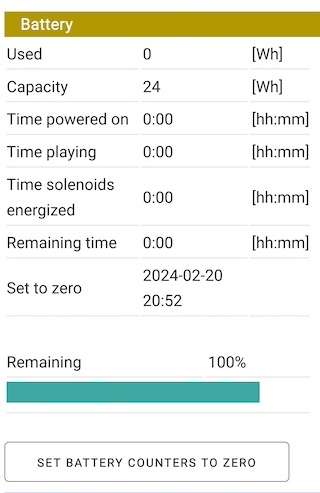
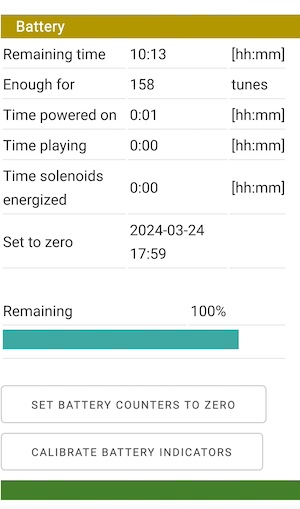
Update software README with new features

diff --git a/doc-software/README.md b/doc-software/README.md
@@ -45,7 +45,6 @@ flowchart LR
     H[main menu]
     H --> |Crank organ button| T[tune list page]
     T --> |Performance button| P[Performance control page]
-    P --> | <- back button, top left corner | T
     H --> |Tuner button| NL[Note list page]
     NL --> |Click on note name/MIDI number| NN[Note page]
     H --> |History button| HI[History page]
@@ -61,7 +60,9 @@ It's best to navigate the application using the buttons and the back button on t
 
 The home page is by default the menu page, but the configuration allows to define the tune list or the performance page as "home" page.
 
-While music is playing, try to stay on the tune list and the performance page. The software is optimized so that these pages and their refresh does not interfere with the MIDI notes being played. All functions for playing music are included in these two pages.
+While music is playing, try to stay on the tune list and the performance page. The software is optimized so that these pages and their refresh does not interfere with the MIDI notes being played. All functions for playing music are included in these two pages. Other pages may interfere with playing music.
+
+While using the tuning pages (note list and note page), playing back music is disabled. Navigating back to tune list and play pages enables playing back music again.
 
 
 ## The page header
@@ -89,7 +90,8 @@ If the browser looses the connection to the server, the broken heart symbol &#x1
 
 The "Battery" section shows more information about the computed state of the battery than the page header. 
 
-The correct calculation of power remaining depends on the "battery_watts_hour" parameter in the config.json file. Be sure to press "Battery counters set to zero" after recharging the battery.
+Be sure to press "Battery counters set to zero" after recharging the battery.
+
 
 
 
@@ -497,13 +499,20 @@ Leave the username blank. Enter the configuration password and press accept.
 
 ## Power management settings
 
-Configure the battery capacity, in watts-hour. You get the watts-hour by multiplying the battery voltage by the milliampere-hours figure (mAh) figure of the battery. Some manufacturers will publish the watts-hour figure.
+Maximum polyphony allowed: Since the battery fuse or current protection may shut down the battery if the consumption is too high, this limits the maximum solenoids that can be on at a certain time. The oldest note gets turned off (i.e. shortened a bit) if the maximum is exceeded.
 
-Example: a AA battery is rated at 2000mAh, that is 2 Ah (ampere-hours. The battery pack has 10 batteries delivering 1.2V each, for a total of 12V. The capacity is 12V*2Ah = 24 watt-hours.
+USB power pack heartbeat: Some USB power packs need some current every now and then to remain turned on. This option will activate a random solenoid to achieve a minimal consumption.
 
-Another example: a USB battery pack is rated at 10000mAh = 10 Ah. Although the battery pack delivers 5V, lithium batteries are 3.3V, so the capacity is 3.3V*10Ah = 33 watt-hours.
+The battery capacity is configurated with the following steps:
+* Charge battery fully and insert
+* Press "Reset battery counters to zero" on index page 
+* Play the organ until the battery reaches zero, i.e. until the battery fully discharges. 
+* Recharge battery fully, insert and _before_ setting counters to zero, press "Battery calibration". Enter 0 (i.e. battery empty) and press ok.
+* Repeat these steps a second time to ensure best results.
 
-Configure the solenoid resistance (default: 90 Ohms).
+Battery capacity will be automatically calculated from now on. This process is necessary only once.
+
+If the battery has a % charge indicator, the % can be entered every now and then, this is an alternative way to calibrate the battery.
 
 ## Time zone
 When connected to a router or cell phone hot spot, the software uses ntptime (network time protocol) to acquire the UTC time, and then it queries worldtimeapi.org once a day for the time zone offset and DST offset. Once that is done, the time zone offset is stored in flash for the next refresh, that takes place at most once a day.
@@ -519,6 +528,8 @@ Before copying tunes to the microcontroller, it is best to have the time set by 
 Go through the rest and change what you may need, use save button to save to the microcontroller. Most parameters are there just to explain how the software works.
 
 The sections are:
+* Automatic playback. This option makes sense if a crank motor is installed. The setlist will be played with the indicated time between tunes.
+
 * Crank settings. Necessary to change when a crank speed sensor is installed (still under development).
 
 The rest of the sections is even less likely to require change:
@@ -693,9 +704,9 @@ Most code, especially the MIDI file parser, has been tested extensively, althoug
 
 The following features need more testing or development:
 
-* Microphone for tuning. It works well, but I have not included a way to aid setting the sensitivity of the microphone. Microphones have a volume setting. If set for high, signal is distorted but that does not impair frequency detection, but intensity cannot be measured. Microphones with automatic volume control are ok to measure tuning, but will not measure volume.
-
 * Sensor for crank speed to influence playback speed. Pending to test and for fine adjustments.
+
+The microphone option for tuning has now been tested and updated.
 
 # Troubleshooting
 If you added tunes to the tunelib folder of the microcontroller, and they do not appear in the tunelist, please click the Edit Tunelib button on the main page to have the new files and changes recognized.
